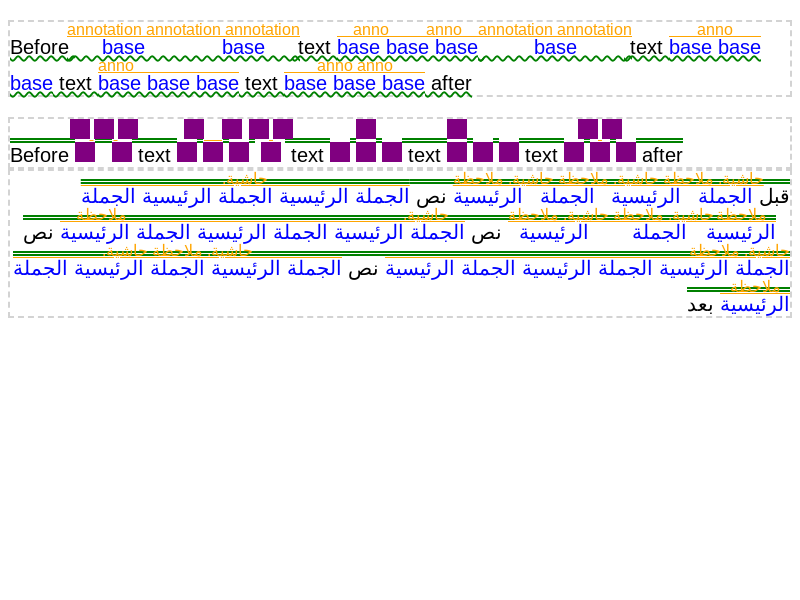
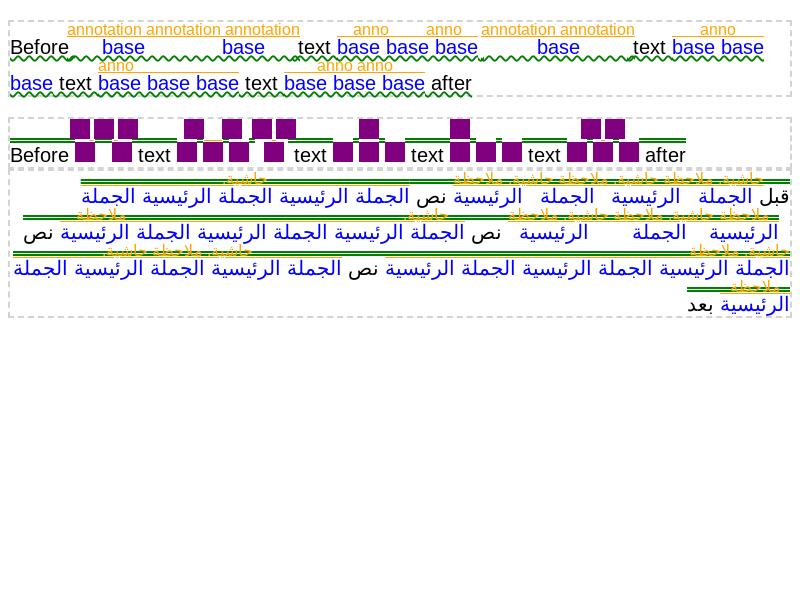
Ruby: Fix annotation overhang overlap
If the width of a text item between overhanging ruby columns was shorter
than total overhang amount from both ruby columns, ruby annotations were
overlapped.

To avoid this issue, we limit available size for overhang to a half
of the text item width.

Fixed: 329776386
Auto-Submit: Kent Tamura <tkent@chromium.org>
Commit-Queue: Koji Ishii <kojii@chromium.org>
Cr-Commit-Position: refs/heads/main@{#1399053}

Changed region(s): [[0.5938, 0.03, 0.9688, 0.12], [0.3125, 0.18, 0.875, 0.27], [0.875, 0.33, 0.9688, 0.42]]

diff --git a/web_tests/external/wpt/css/css-ruby/ruby-overhang-no-overlap.html b/web_tests/external/wpt/css/css-ruby/ruby-overhang-no-overlap.html
@@ -1,0 +1,26 @@
+<!DOCTYPE html>
+<meta charset="utf-8">
+<link rel="help" href="https://crbug.com/329776386">
+<script src="/resources/testharness.js"></script>
+<script src="/resources/testharnessreport.js"></script>
+<style>
+p {
+  font-size: 10px;
+}
+ruby {
+  font-size: 40px;
+}
+</style>
+
+<p>
+<ruby>安<rt>ān</rt></ruby>〓<ruby>装<rt>zhuāng</rt></ruby>〓<ruby>窗<rt>chuāng</rt></ruby>〓<ruby>户<rt>hù</rt></ruby>
+</p>
+
+<script>
+test(() => {
+  const rts = document.querySelectorAll('rt');
+  const bounds2 = rts[1].getBoundingClientRect();
+  const bounds3 = rts[2].getBoundingClientRect();
+  assert_less_than_equal(Math.round(bounds2.right), Math.round(bounds3.left));
+}, "Annotations should not be overlapped");
+</script>

diff --git a/web_tests/fast/ruby/ruby-first-letter-expected.html b/web_tests/fast/ruby/ruby-first-letter-expected.html
@@ -8,8 +8,7 @@
 ruby tags works correctly.</div>
 
 <p>&lt;ruby&gt; is defined in the
-<ruby id='ruby'>H<rt>Hyper</rt>T<rt>Text</rt>M<rt>Markup</rt>L<rt>Language</rt>5<rt>Level 5</rt>T<rt>Test</rt>
-</ruby> specs.</p>
+<ruby id='ruby'>H<rt>Hyper</rt>T<rt>Text</rt>M<rt>Markup</rt>L<rt>Language</rt>5<rt>Level 5</rt>T<rt>Test</rt></ruby> specs.</p>
 
 <ruby xml:lang="ja">
   <rbc>

diff --git a/renderer/core/layout/inline/ruby_utils.cc b/renderer/core/layout/inline/ruby_utils.cc
@@ -235,7 +235,11 @@ bool CanApplyStartOverhang(const LineInfo& line_info,
   if (previous_item.item->Style()->FontSize() > ruby_style.FontSize()) {
     return false;
   }
-  start_overhang = std::min(start_overhang, previous_item.inline_size);
+  LayoutUnit text_inline_size = previous_item.inline_size;
+  if (RuntimeEnabledFeatures::RubyOverhangOverlapFixEnabled()) {
+    text_inline_size = text_inline_size / 2;
+  }
+  start_overhang = std::min(start_overhang, text_inline_size);
   return true;
 }
 
@@ -275,9 +279,13 @@ LayoutUnit CommitPendingEndOverhang(const InlineItem& text_item,
   // width of the InlineItem's ShapeResult. However it's impossible to compute
   // inline_size of |text_item| before calling BreakText(), and BreakText()
   // requires precise |position_| which takes |end_overhang| into account.
+  LayoutUnit text_inline_size =
+      LayoutUnit(text_item.TextShapeResult()->Width());
+  if (RuntimeEnabledFeatures::RubyOverhangOverlapFixEnabled()) {
+    text_inline_size = text_inline_size / 2;
+  }
   LayoutUnit end_overhang =
-      std::min(column_item.pending_end_overhang,
-               LayoutUnit(text_item.TextShapeResult()->Width()));
+      std::min(column_item.pending_end_overhang, text_inline_size);
   InlineItemResult& end_item =
       column_item.ruby_column->base_line.MutableResults()->back();
   DCHECK_EQ(end_item.item->Type(), InlineItem::kRubyLinePlaceholder);
